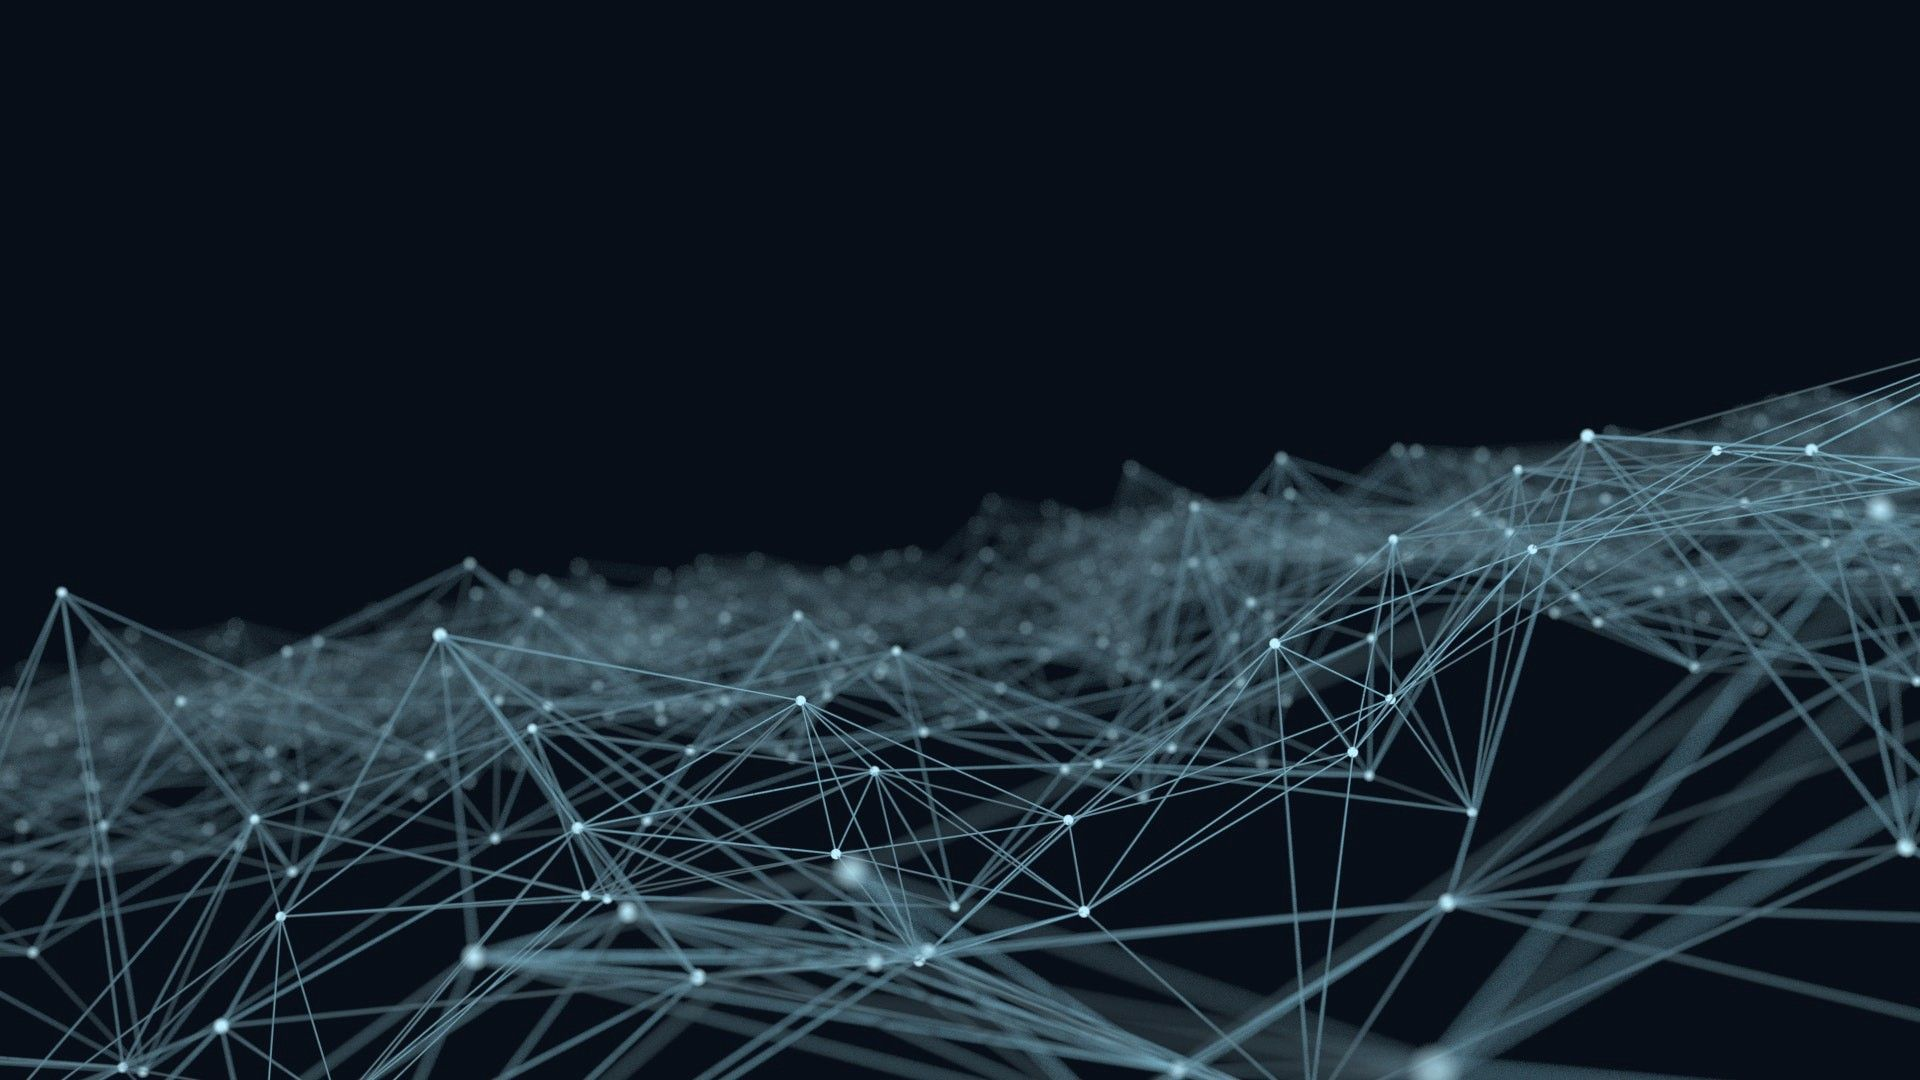
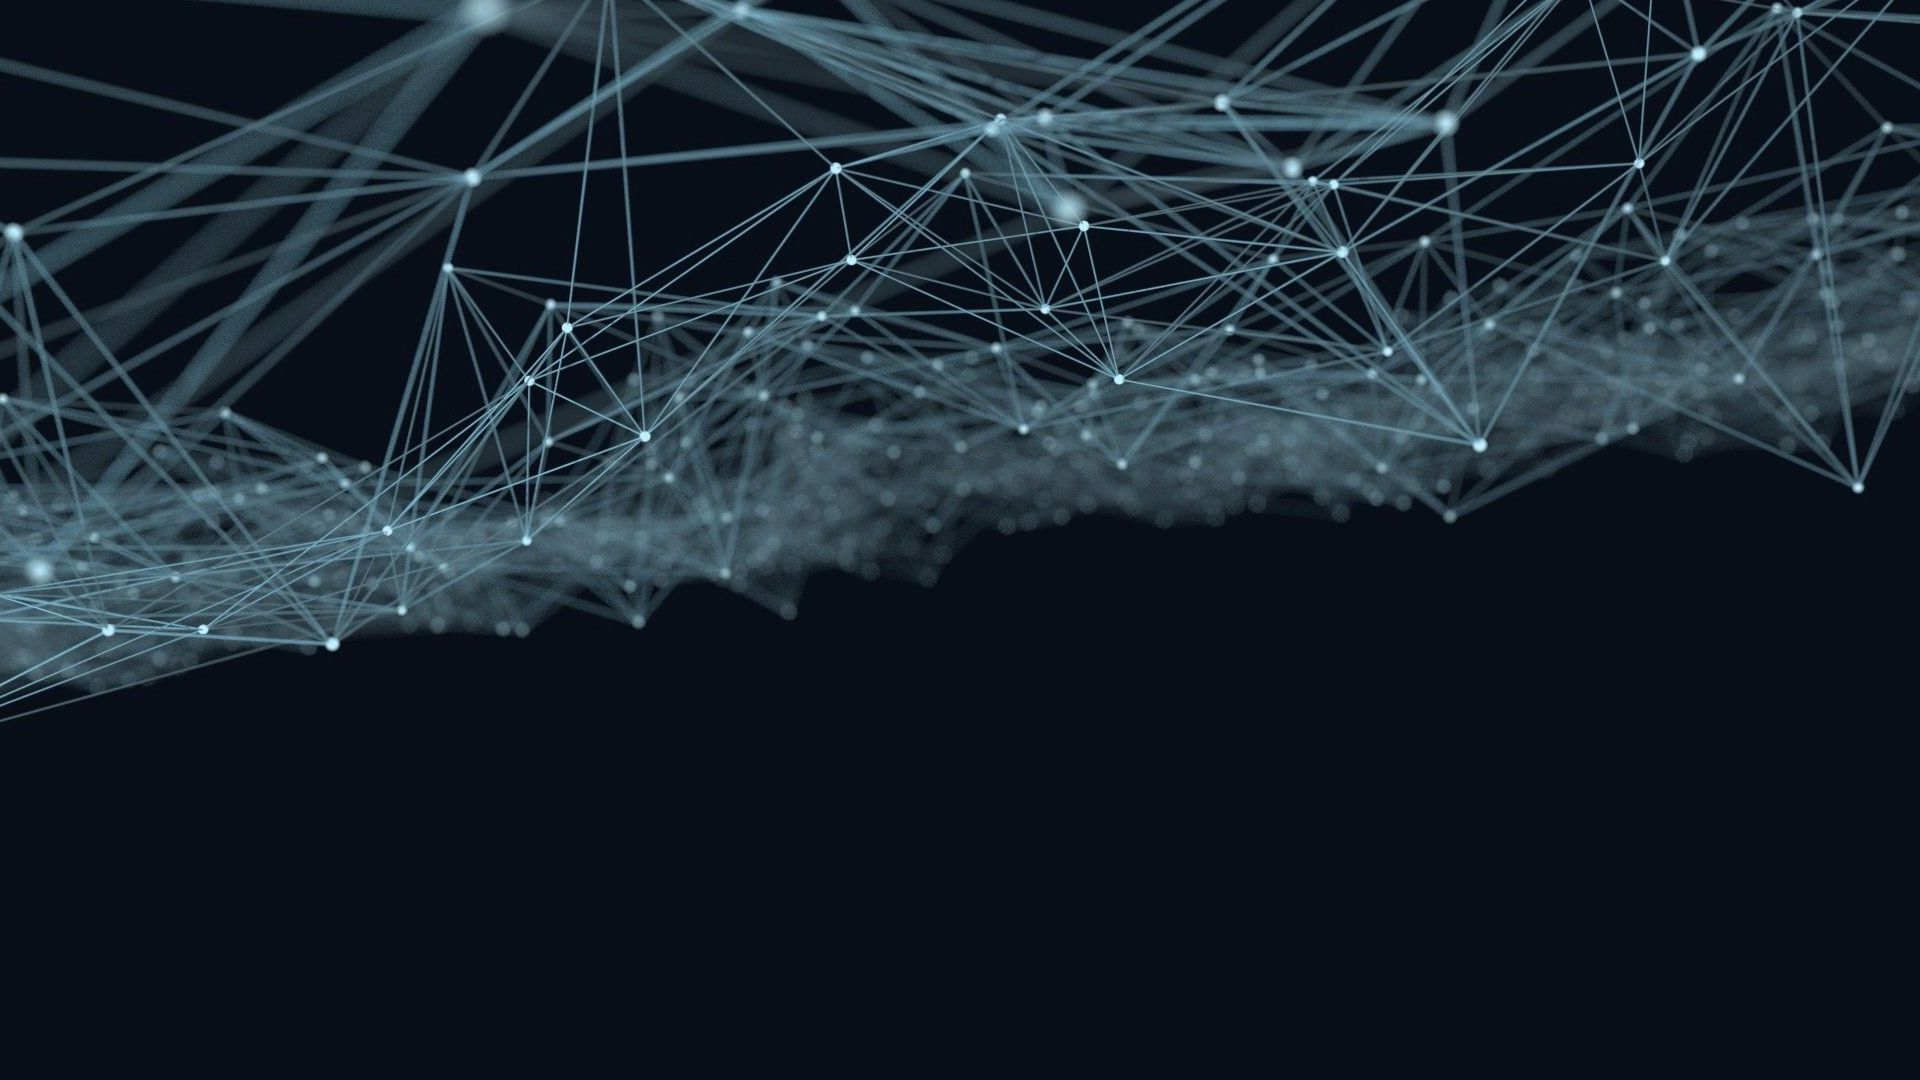
adding new backgroung

diff --git a/index.html b/index.html
@@ -117,15 +117,14 @@
         <section class="mh-home image-bg header-slider header-slider-preloader" id="header-slider">
             <div class="animation-slides owl-carousel owl-theme" id="animation-slide">
                  <!--Slide 1-->
-                <div  class="item">
-                    <!-- <div style="background-image:url(assets/images/slider/1.jpg)"></div> -->
+                <!-- <div  class="item">
                     <div style="background-image:url(assets/imgs/head_background.png)"></div>
-                </div>
+                </div> -->
 
                 <!--Slide 2-->
-                <div class="item">
+                <!-- <div class="item">
                     <div style="background-image:url(assets/imgs/head_background2.png)"></div>
-                </div>
+                </div> -->
 
                 <!--Slide 3-->
                 <div class="item">
